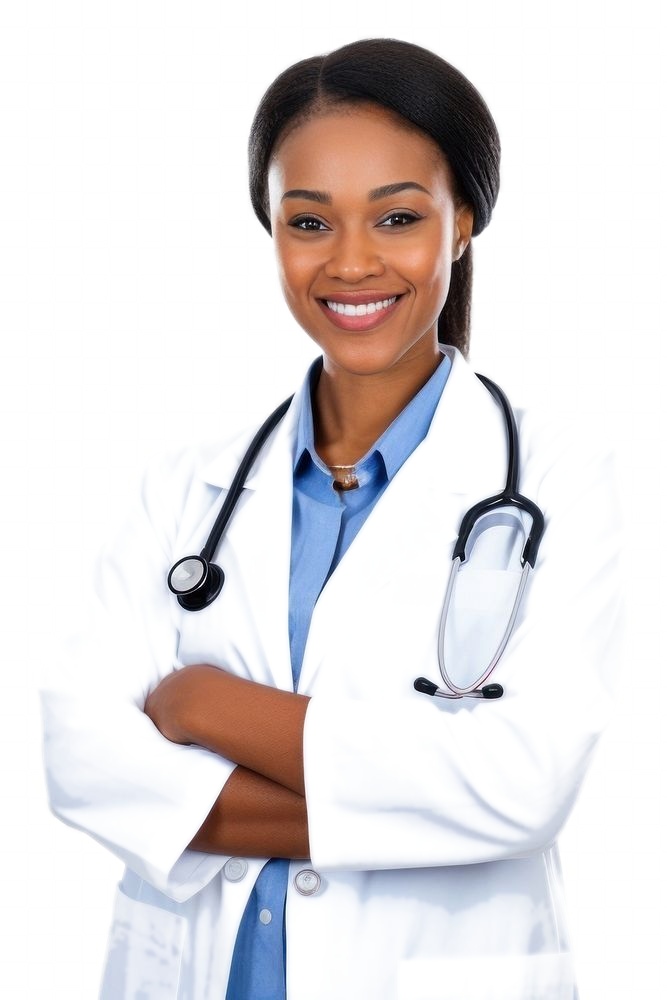
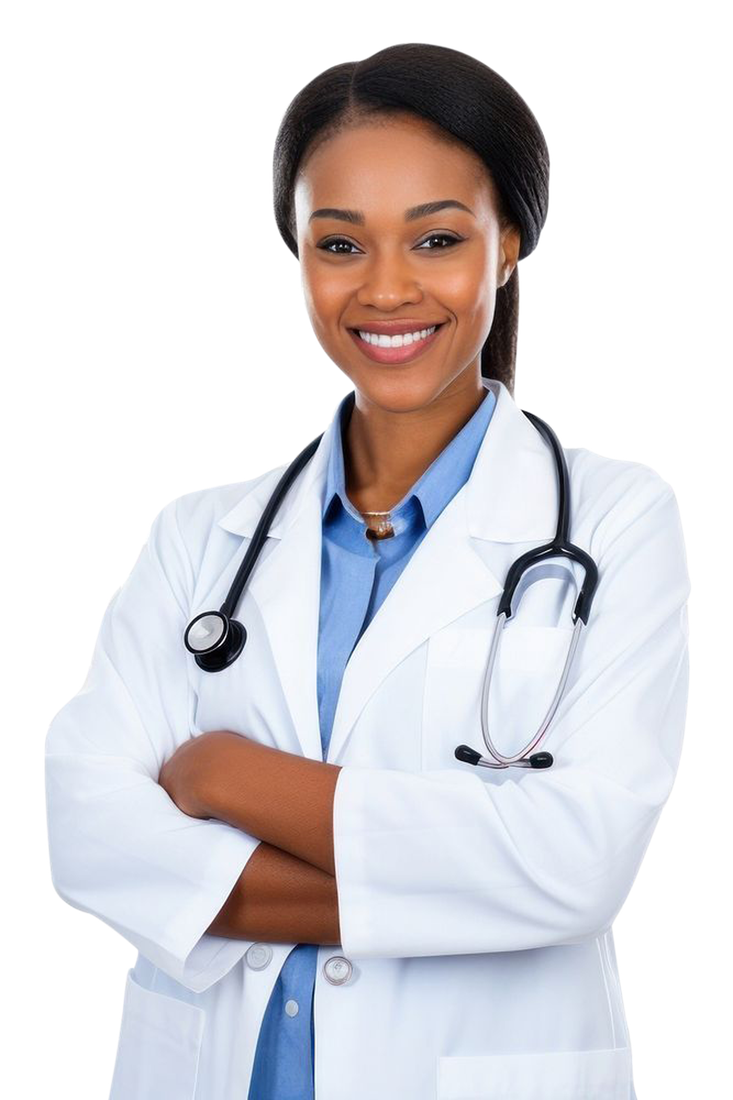
Auth: real photos, static layout, Google sign-in; landing polish
Auth page:
- Swapped the placeholder doctor cutouts for the two exact PNGs
  provided (man fixed on the left, woman fixed on the right, matching
  the backgrounds already reworked on them) -- no more float animation,
  they're now static/fixed as requested
- Removed the 'Développé par LiAfrik' badge
- Added a working 'Continue with Google' button wired to
  supabase.auth.signInWithOAuth (new signInWithGoogle() in the auth
  context, redirects to /app on success). Frontend side is fully
  wired; the Google provider still needs to be enabled with a real
  Client ID/Secret in the Supabase dashboard for it to work end-to-end
  -- noted separately, not something committable from this repo

Landing / Resources section:
- Swapped the stock reception-desk photo for the premium
  doctor-patient consultation photo provided, on both the homepage
  teaser and the full /insights article page

Integrations showcase:
- Tightened the Telegram logo's built-in padding so it fills its tile
  at roughly the same visual scale as PayUnit/Flutterwave instead of
  looking small/distant; measured every other logo's fill ratio and
  confirmed the rest were already in the same range

diff --git a/src/pages/Auth.tsx b/src/pages/Auth.tsx
@@ -1,12 +1,11 @@
 import { useState, useEffect } from 'react';
 import { Link, useNavigate } from 'react-router-dom';
-import { ArrowLeft, Mail, CheckCircle2, AlertCircle } from 'lucide-react';
+import { ArrowLeft, Mail, CheckCircle2, AlertCircle, Loader2 } from 'lucide-react';
 import { useAuth } from '../lib/auth';
 import { useI18n } from '../lib/i18n';
 import { Button, Input } from '../components/ui';
 import { Logo, LangToggle, CopyrightLine } from '../components/brand';
 import { supabase } from '../lib/supabase';
-import logoMark from '../assets/logo-mark.png';
 import doctorWoman from '../assets/doctors/doctor-woman.png';
 import doctorMan from '../assets/doctors/doctor-man.png';
 
@@ -18,8 +17,19 @@ const HOSPITAL_VIDEO_POSTER = 'https://images.pexels.com/videos/20670148/hospita
 
 type Mode = 'signin' | 'signup' | 'forgot' | 'reset' | 'verify' | 'mfa';
 
+function GoogleIcon({ size = 18 }: { size?: number }) {
+  return (
+    <svg width={size} height={size} viewBox="0 0 48 48" aria-hidden="true">
+      <path fill="#FFC107" d="M43.611 20.083H42V20H24v8h11.303c-1.649 4.657-6.08 8-11.303 8-6.627 0-12-5.373-12-12s5.373-12 12-12c3.059 0 5.842 1.154 7.961 3.039l5.657-5.657C34.046 6.053 29.268 4 24 4 12.955 4 4 12.955 4 24s8.955 20 20 20 20-8.955 20-20c0-1.341-.138-2.65-.389-3.917z" />
+      <path fill="#FF3D00" d="M6.306 14.691l6.571 4.819C14.655 15.108 18.961 12 24 12c3.059 0 5.842 1.154 7.961 3.039l5.657-5.657C34.046 6.053 29.268 4 24 4 16.318 4 9.656 8.337 6.306 14.691z" />
+      <path fill="#4CAF50" d="M24 44c5.166 0 9.86-1.977 13.409-5.192l-6.19-5.238C29.211 35.091 26.715 36 24 36c-5.202 0-9.619-3.317-11.283-7.946l-6.522 5.025C9.505 39.556 16.227 44 24 44z" />
+      <path fill="#1976D2" d="M43.611 20.083H42V20H24v8h11.303a12.04 12.04 0 01-4.087 5.571l.003-.002 6.19 5.238C36.971 39.205 44 34 44 24c0-1.341-.138-2.65-.389-3.917z" />
+    </svg>
+  );
+}
+
 export function AuthPage({ mode: initialMode }: { mode: 'signin' | 'signup' }) {
-  const { signIn, signUp, resetPassword, verifyMfaChallenge } = useAuth();
+  const { signIn, signUp, resetPassword, verifyMfaChallenge, signInWithGoogle } = useAuth();
   const { t } = useI18n();
   const nav = useNavigate();
   const [mode, setMode] = useState<Mode>(initialMode);
@@ -30,8 +40,17 @@ export function AuthPage({ mode: initialMode }: { mode: 'signin' | 'signup' }) {
   const [error, setError] = useState<string | null>(null);
   const [info, setInfo] = useState<string | null>(null);
   const [loading, setLoading] = useState(false);
+  const [googleLoading, setGoogleLoading] = useState(false);
   const [mfaFactorId, setMfaFactorId] = useState<string | null>(null);
   const [mfaCode, setMfaCode] = useState('');
+
+  const handleGoogle = async () => {
+    setError(null); setInfo(null); setGoogleLoading(true);
+    const res = await signInWithGoogle();
+    // On success the browser navigates away to Google immediately; we only
+    // ever reach this line if the request failed before the redirect.
+    if (res.error) { setError(res.error); setGoogleLoading(false); }
+  };
 
   useEffect(() => {
     if (initialMode !== 'signin') return;
@@ -105,26 +124,22 @@ export function AuthPage({ mode: initialMode }: { mode: 'signin' | 'signup' }) {
       <div className="relative flex-1 flex items-center justify-center px-4 py-10 z-10">
         {/* Floating transparent-cutout doctors flanking the card — decorative, hidden on small screens */}
         <img
-          src={doctorWoman}
-          alt=""
-          aria-hidden="true"
-          className="hidden xl:block absolute left-[6%] bottom-0 w-[300px] 2xl:w-[340px] object-contain drop-shadow-[0_30px_40px_rgba(0,0,0,0.45)] pointer-events-none select-none animate-float-slow"
-        />
-        <img
           src={doctorMan}
           alt=""
           aria-hidden="true"
-          className="hidden xl:block absolute right-[6%] bottom-0 w-[300px] 2xl:w-[340px] object-contain drop-shadow-[0_30px_40px_rgba(0,0,0,0.45)] pointer-events-none select-none animate-float-slow"
-          style={{ animationDelay: '1.4s' }}
+          className="hidden xl:block absolute left-[6%] bottom-0 w-[300px] 2xl:w-[340px] object-contain drop-shadow-[0_30px_40px_rgba(0,0,0,0.45)] pointer-events-none select-none"
+        />
+        <img
+          src={doctorWoman}
+          alt=""
+          aria-hidden="true"
+          className="hidden xl:block absolute right-[6%] bottom-0 w-[300px] 2xl:w-[340px] object-contain drop-shadow-[0_30px_40px_rgba(0,0,0,0.45)] pointer-events-none select-none"
         />
 
         {/* Centered auth card */}
         <div className="w-full max-w-md relative z-10">
           <div className="text-center mb-8">
             <div className="inline-flex items-center justify-center mb-4 p-2.5 rounded-2xl bg-white/95 shadow-xl"><Logo size={40} /></div>
-            <div className="inline-flex items-center gap-1.5 px-3 py-1 rounded-full bg-white/10 border border-white/15 backdrop-blur-sm text-blue-100 text-xs font-medium mb-3">
-              <img src={logoMark} alt="" className="w-3 h-3 object-contain" /> {t('app.developed')}
-            </div>
             <h1 className="text-2xl font-bold text-white drop-shadow">
               {mode === 'signin' && t('auth.signin.title')}
               {mode === 'signup' && t('auth.signup.title')}
@@ -150,6 +165,24 @@ export function AuthPage({ mode: initialMode }: { mode: 'signin' | 'signup' }) {
             </div>
           ) : (
             <form onSubmit={submit} className="bg-white/97 backdrop-blur-xl rounded-2xl border border-white/40 shadow-2xl p-6 space-y-4">
+              {(mode === 'signin' || mode === 'signup') && (
+                <>
+                  <button
+                    type="button"
+                    onClick={handleGoogle}
+                    disabled={googleLoading}
+                    className="w-full inline-flex items-center justify-center gap-2.5 py-2.5 rounded-xl border border-gray-300 bg-white text-sm font-medium text-gray-700 hover:bg-gray-50 transition-colors disabled:opacity-60"
+                  >
+                    {googleLoading ? <Loader2 size={18} className="animate-spin text-gray-400" /> : <GoogleIcon />}
+                    {mode === 'signin' ? t('auth.google.signin') : t('auth.google.signup')}
+                  </button>
+                  <div className="flex items-center gap-3 text-xs text-gray-400">
+                    <span className="flex-1 h-px bg-gray-200" />
+                    {t('auth.or_email')}
+                    <span className="flex-1 h-px bg-gray-200" />
+                  </div>
+                </>
+              )}
               {mode === 'mfa' ? (
                 <Input label={t('auth.mfa.code_label')} required value={mfaCode} onChange={(e) => setMfaCode(e.target.value)} placeholder="000000" maxLength={6} autoFocus />
               ) : (

diff --git a/src/lib/auth.tsx b/src/lib/auth.tsx
@@ -51,6 +51,7 @@ type AuthState = {
   signOut: () => Promise<void>; refresh: () => Promise<void>; setActiveTenantId: (id: string | null) => Promise<void>;
   resetPassword: (email: string) => Promise<{ error: string | null }>;
   resendVerification: (email: string) => Promise<{ error: string | null }>;
+  signInWithGoogle: () => Promise<{ error: string | null }>;
 };
 
 const AuthContext = createContext<AuthState | undefined>(undefined);
@@ -263,6 +264,20 @@ export function AuthProvider({ children }: { children: ReactNode }) {
     return { error: error ? error.message : null };
   };
 
+  // Google OAuth sign-in/sign-up (same flow either way — Supabase creates
+  // the account on first login). Requires the Google provider to be
+  // enabled in the Supabase project (Authentication -> Providers -> Google)
+  // with a Client ID/Secret from Google Cloud Console; this call is a no-op
+  // failure with a clear error message if that hasn't been configured yet.
+  const signInWithGoogle = async () => {
+    localStorage.setItem(REMEMBER_FLAG_KEY, '1');
+    const { error } = await supabase.auth.signInWithOAuth({
+      provider: 'google',
+      options: { redirectTo: `${window.location.origin}/app` },
+    });
+    return { error: error ? error.message : null };
+  };
+
   const resendVerification = async (email: string) => {
     const { error } = await supabase.auth.resend({
       type: 'signup',
@@ -304,7 +319,7 @@ export function AuthProvider({ children }: { children: ReactNode }) {
 
   const activeMembership = useMemo(() => memberships.find((m) => m.tenant_id === activeTenant?.id) ?? null, [memberships, activeTenant]);
 
-  const value = useMemo<AuthState>(() => ({ session, user, profile, memberships, activeTenant, activeMembership, activePlan, loading, signIn, verifyMfaChallenge, signUp, signOut, refresh, setActiveTenantId, resetPassword, resendVerification }), [session, user, profile, memberships, activeTenant, activeMembership, activePlan, loading]);
+  const value = useMemo<AuthState>(() => ({ session, user, profile, memberships, activeTenant, activeMembership, activePlan, loading, signIn, verifyMfaChallenge, signUp, signOut, refresh, setActiveTenantId, resetPassword, resendVerification, signInWithGoogle }), [session, user, profile, memberships, activeTenant, activeMembership, activePlan, loading]);
   return <AuthContext.Provider value={value}>{children}</AuthContext.Provider>;
 }
 

diff --git a/src/lib/i18n.tsx b/src/lib/i18n.tsx
@@ -19,6 +19,7 @@ const fr: Dict = {
   'auth.email': 'Email', 'auth.password': 'Mot de passe', 'auth.fullname': 'Nom complet',
   'auth.signin.title': 'Connexion à Health Cloud', 'auth.signup.title': 'Créer votre compte',
   'auth.signin.cta': 'Se connecter', 'auth.signup.cta': 'Créer le compte',
+  'auth.google.signin': 'Continuer avec Google', 'auth.google.signup': "S'inscrire avec Google", 'auth.or_email': 'ou par e-mail',
   'auth.to.signup': "Pas encore de compte ? S'inscrire", 'auth.to.signin': 'Déjà un compte ? Se connecter',
   'auth.to.signup_pre': '', 'auth.to.signin_pre': '',
   'auth.remember': 'Se souvenir de moi', 'auth.forgot_link': 'Mot de passe oublié ?',
@@ -427,6 +428,7 @@ const en: Dict = {
   'auth.email': 'Email', 'auth.password': 'Password', 'auth.fullname': 'Full name',
   'auth.signin.title': 'Sign in to Health Cloud', 'auth.signup.title': 'Create your account',
   'auth.signin.cta': 'Sign in', 'auth.signup.cta': 'Create account',
+  'auth.google.signin': 'Continue with Google', 'auth.google.signup': 'Sign up with Google', 'auth.or_email': 'or with email',
   'auth.to.signup': "Don't have an account? Sign up", 'auth.to.signin': 'Already have an account? Sign in',
   'auth.to.signup_pre': '', 'auth.to.signin_pre': '',
   'auth.remember': 'Remember me', 'auth.forgot_link': 'Forgot password?',

diff --git a/src/pages/StaticPages.tsx b/src/pages/StaticPages.tsx
@@ -7,7 +7,7 @@ import { useI18n } from '../lib/i18n';
 import { Button, Card, Input, Textarea } from '../components/ui';
 import { useState } from 'react';
 import logoMark from '../assets/logo-mark.png';
-import resourcePhoto from '../assets/photos/reception-desk.jpg';
+import resourcePhoto from '../assets/photos/doctor-patient-consult.jpg';
 
 // Coordonnées réelles de contact. CONTACT_PHONE volontairement vide tant qu'un
 // vrai numéro n'est pas fourni par LiAfrik — mieux vaut ne pas afficher de

diff --git a/src/components/ResourceSection.tsx b/src/components/ResourceSection.tsx
@@ -1,6 +1,6 @@
 import { ArrowRight } from 'lucide-react';
 import { useI18n } from '../lib/i18n';
-import resourcePhoto from '../assets/photos/reception-desk.jpg';
+import resourcePhoto from '../assets/photos/doctor-patient-consult.jpg';
 
 export function ResourceSection() {
   const { t } = useI18n();
